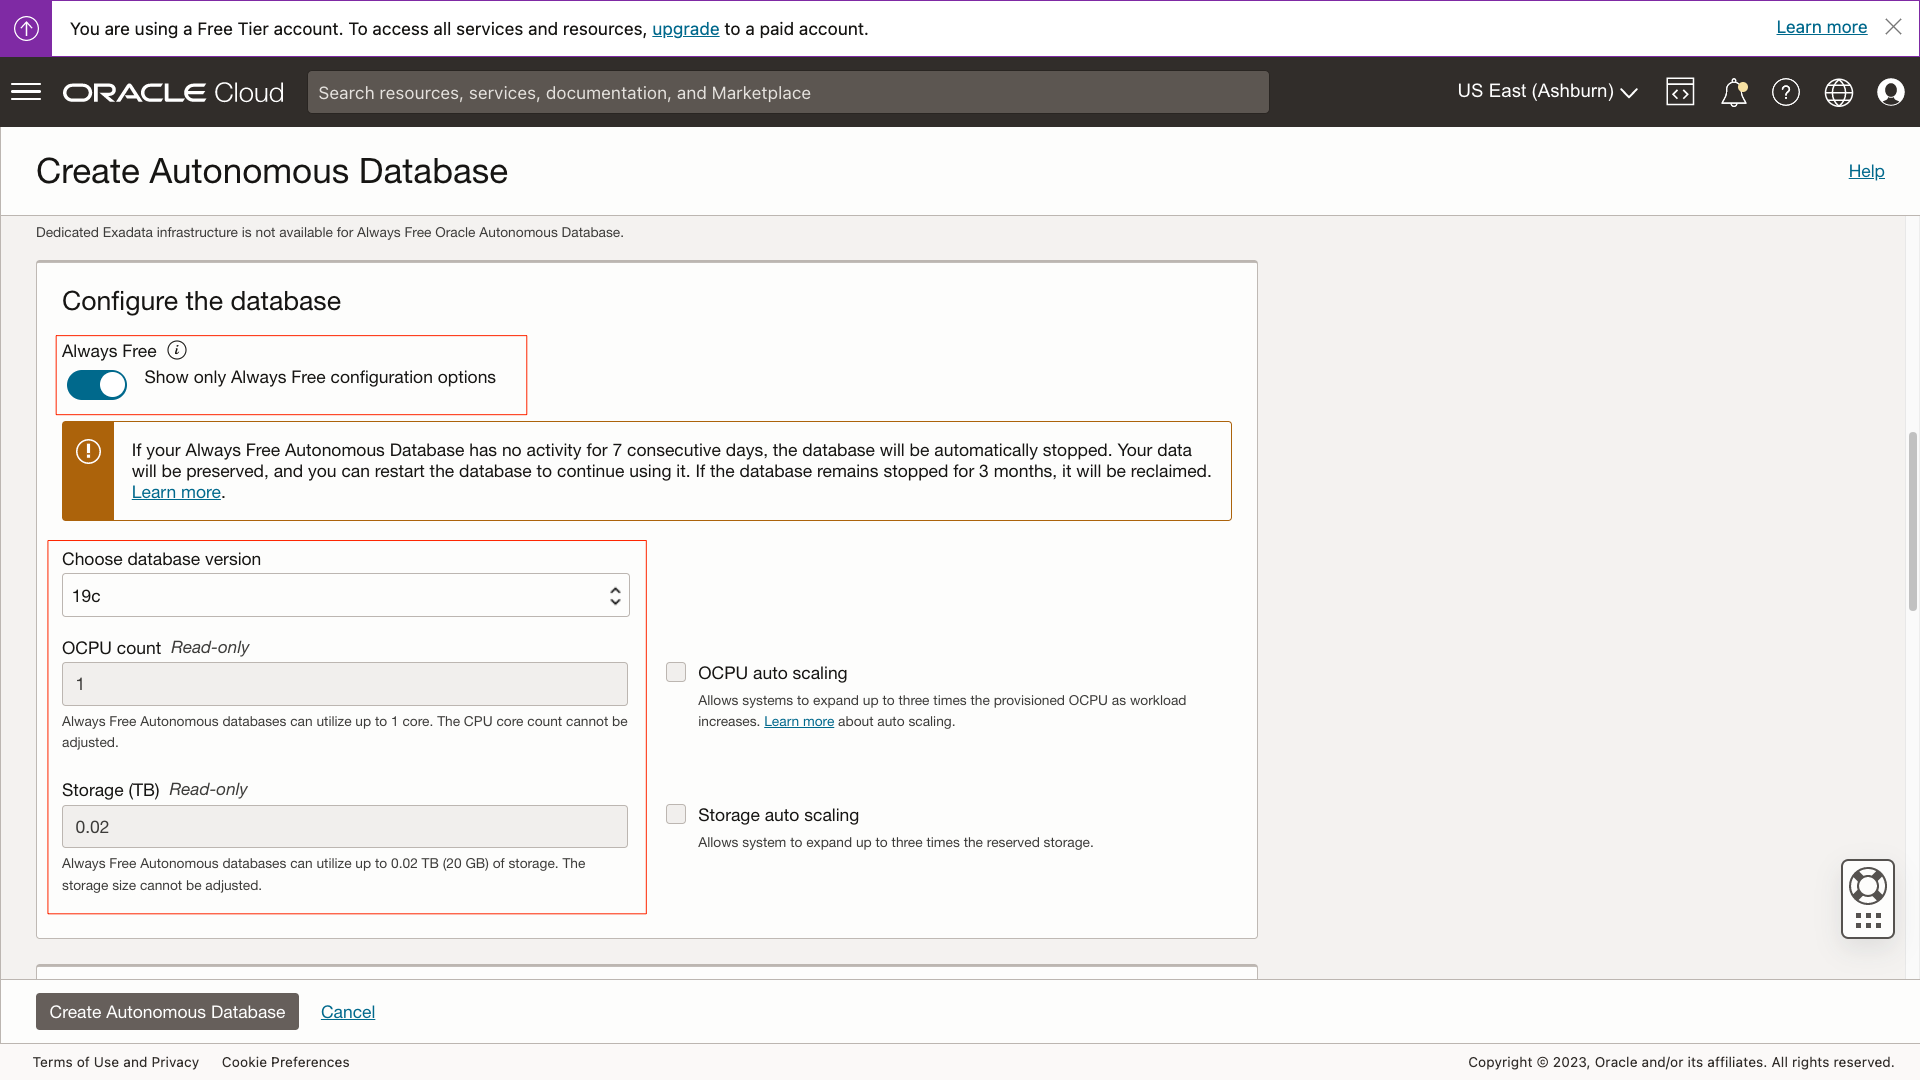
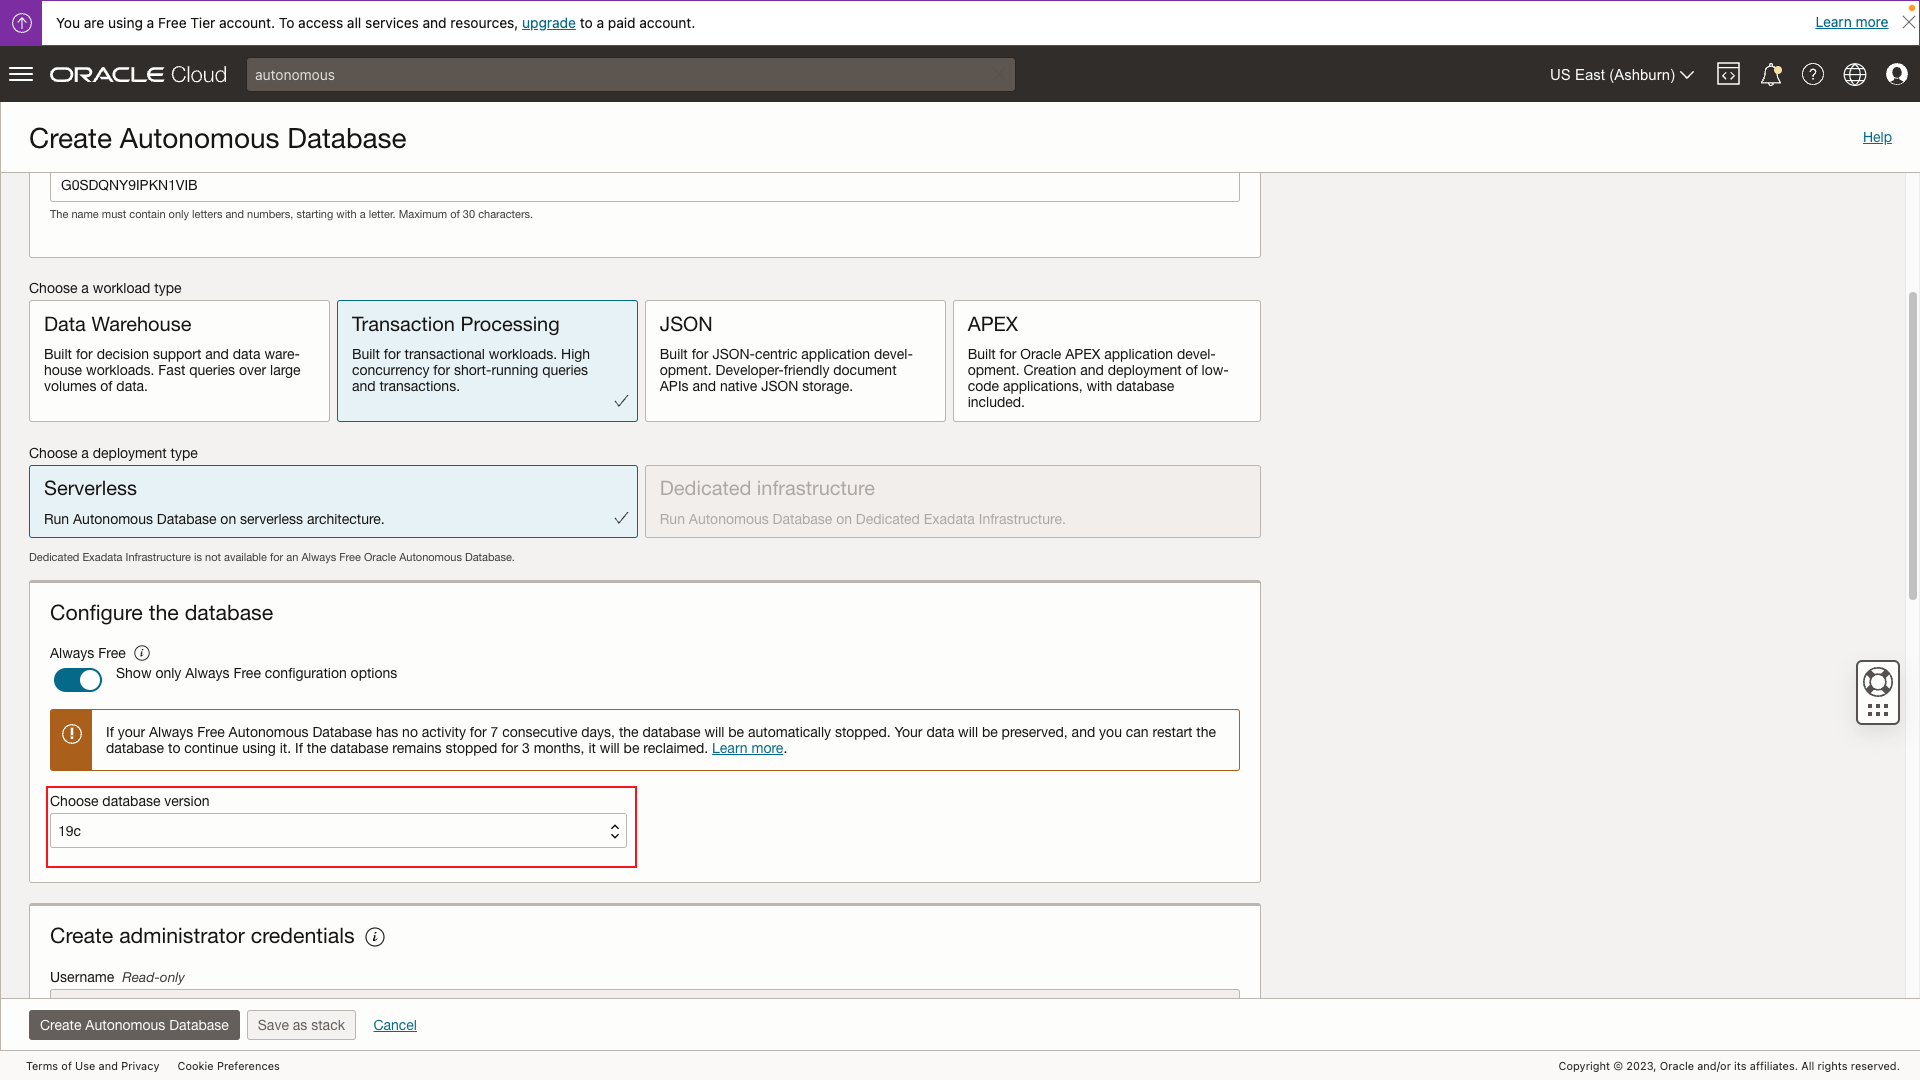
Sample Files + QA Updates (#108)
* first commit. Added object-storage-workflow folder, with 8 labs

HOL2512
Low-Code Approval Workflow with Oracle APEX

* modified manifest file. Altered introductions on each lab

* Added scaled image reference. Self QA Changes

* Updated Get Help/Get Started for OWC Manifest files

* Updated Get Help, and Get Started lab files. Fixed copy blocks syntax

* Updated Manifest files to add back help lab and create OCW help lab

* Added videohub files to each lab

* fixed issues

- adjusted file/folder names to lowercase
- corrected lab estimated time, and removed download section in intro lab
-fixed instructions and images in clean up lab

* updated file names

fixed file names, fixed manifest file, removed 'OCW...' folder, and fixed table of contents in the intro

* changed lab 3 file name

* update lab 2 folder, and manifest

* intro lab, objectives heading 3

* Lowercase File Name - ocw23, lab 8

* lowercase lab 3 md file, remove number from folder name and update manifest file

* Updated manifest files for lab 3

* Updated lab 7, removed placeholder text

* Added punctuation to all labs. Removed the "Get Started" lab due to it being redundant. Changed the workshop title to match WMS

* Added Get Started lab back in

* correct Autonomous screenshots

* QA updates

Added sample files to intro lab

diff --git a/object-storage-workflow/task-details/task-details.md b/object-storage-workflow/task-details/task-details.md
@@ -24,7 +24,7 @@ To complete this lab, you need to have the following:
 
 ## Task 1: Task Details
 
-1. In line 31 of the code, there is a substitution string called "G\_BASE\_URL". An application definition needs to be created for it. To accomplish this, navigate to the **Application Definition** section.
+1. In the code, there is a substitution string called "G\_BASE\_URL". An application definition needs to be created for it. To accomplish this, navigate to the **Application Definition** section.
 
     >**Note: Instead of hard coding the value, it is recommended to create a substitution variable for "G\_BASE\_URL" since it will be reused later. This will ensure easier management and flexibility.**
 
@@ -103,7 +103,7 @@ To complete this lab, you need to have the following:
 
     ![Modify Page Item Source](images/modify-query-source.png " ")
 
-11. Next, navigate back to the object store classic report that was just created and add a post-processing query.
+11. Next, navigate back to the object storage classic report that was just created and add a post-processing query.
 
     ![Classic Report Changes](images/classic-report-changes-1.png " ")
 

diff --git a/object-storage-workflow/create-application/create-application.md b/object-storage-workflow/create-application/create-application.md
@@ -105,7 +105,7 @@ To complete this lab, you need to have the following:
 
     ![Task Definition Created](images/task-created.png " ")
 
-5. Scroll down to add a new **Participant** For the Potential Owner, enter a **SQL Query** with a value as shown.
+5. Scroll down to add a new **Participant** For the Potential Owner, enter a **SQL Query** with a value as shown. This query will assign the newly created task to the project lead found in the EBA\_PROJECTS table.
 
     ```SQL
      <copy>
@@ -117,7 +117,7 @@ To complete this lab, you need to have the following:
 
     ![Potential Owner Value](images/add-task-participant-2.png " ")
 
-6. Additionally, a parameter can be added to the task to store the name of the file that has been uploaded by the user to the object storage upon creation. Once complete **Apply Changes** and return to the OCI console.
+6. An additional parameter can be added to the task to store the name of the file that has been uploaded by the user to the object storage bucket. Once complete **Apply Changes** and return to the OCI console.
 
     ![Add Task Parameter](images/add-parameter.png " ")
 

diff --git a/object-storage-workflow/intro/intro.md b/object-storage-workflow/intro/intro.md
@@ -41,6 +41,10 @@ In this lab, you will:
 - [Click here](?lab=1-sign-up-apex) or select **Getting Started** from the menu on the left to start the workshop and set up an Oracle APEX workspace.
 If the menu is not displayed, you can open by clicking the menu button (![Menu icon](./images/menu-button.png)) at the top of the page.
 
+### **Sample Files**
+
+- This workshop requires the use of files for testing the upload/download process (any file type will work). You can either use your own files or download a zip folder with a couple [sample files here.](https://objectstorage.us-ashburn-1.oraclecloud.com/p/jyHA4nclWcTaekNIdpKPq3u2gsLb00v_1mmRKDIuOEsp--D6GJWS_tMrqGmb85R2/n/c4u04/b/livelabsfiles/o/labfiles/Sample-FIles.zip)
+
 ## Learn More
 
 - [Oracle APEX](https://apex.oracle.com/en/)

diff --git a/object-storage-workflow/download-file/download-file.md b/object-storage-workflow/download-file/download-file.md
@@ -110,7 +110,9 @@ To complete this lab, you need to have the following:
 
     ![Set Link Icon](images/set-link-icon.png " ")
 
-4. Finally, it's time to perform a comprehensive test. The application should be accessed by logging in with the user **Lucille** to view the original task that was created for uploading to object storage earlier.
+4. Finally, it's time to perform a comprehensive test. Log into the application with 'APEX_USER' and upload a new project file, as done before. Then access the application by logging in with the user **Lucille** to view this task that was just created.
+
+    >**Note: You may also see the previously uploaded file in a previous task that was used for testing.**
 
     ![Login Lucille](images/final-test-1.png " ")
 

diff --git a/object-storage-workflow/create-autonomous/create-autonomous.md b/object-storage-workflow/create-autonomous/create-autonomous.md
@@ -80,7 +80,7 @@ To complete this lab, you need to have the following:
 
     ![View Configuration File](images/configuration-file.png " ")
 
-5. Navigate back to the ATP instance that was created and into **OCW2023-ATP** and then click on **Tools**
+5. Navigate back to the ATP instance that was created and into **OCW2023-ATP** and then click on **Tool Configuration**. Copy the provided link into a new browser tab.
 
     ![Autonomous Databases](images/autonomous-databases.png " ")
 

diff --git a/object-storage-workflow/create-form/create-form.md b/object-storage-workflow/create-form/create-form.md
@@ -13,7 +13,7 @@ Estimated Time: 5 minutes
 In this lab, you will:
 
 - Create APEX form page
-- ALter page details
+- Alter page details
 - Create link between pages
 
 ### Prerequisites
